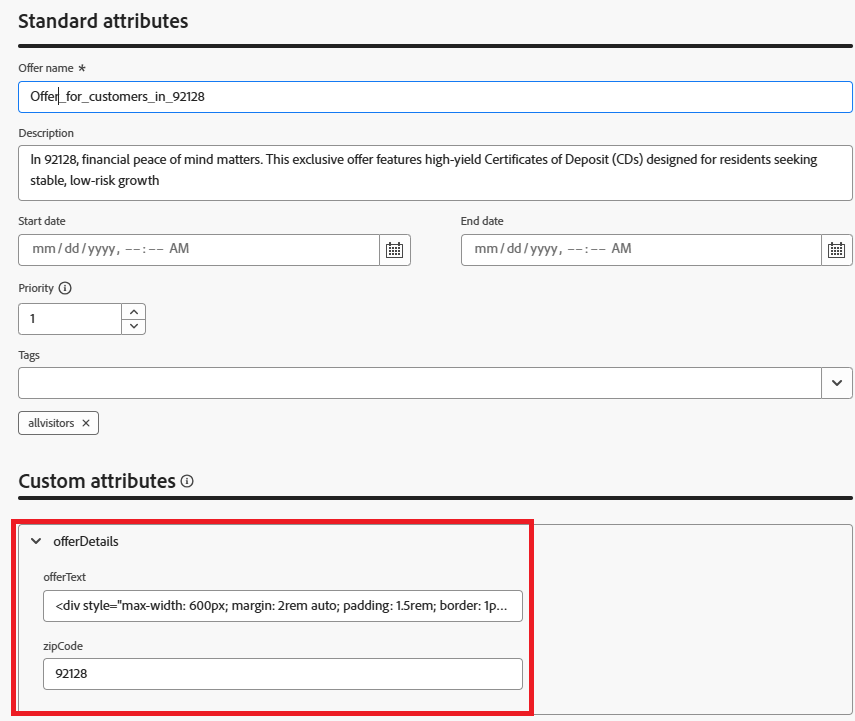
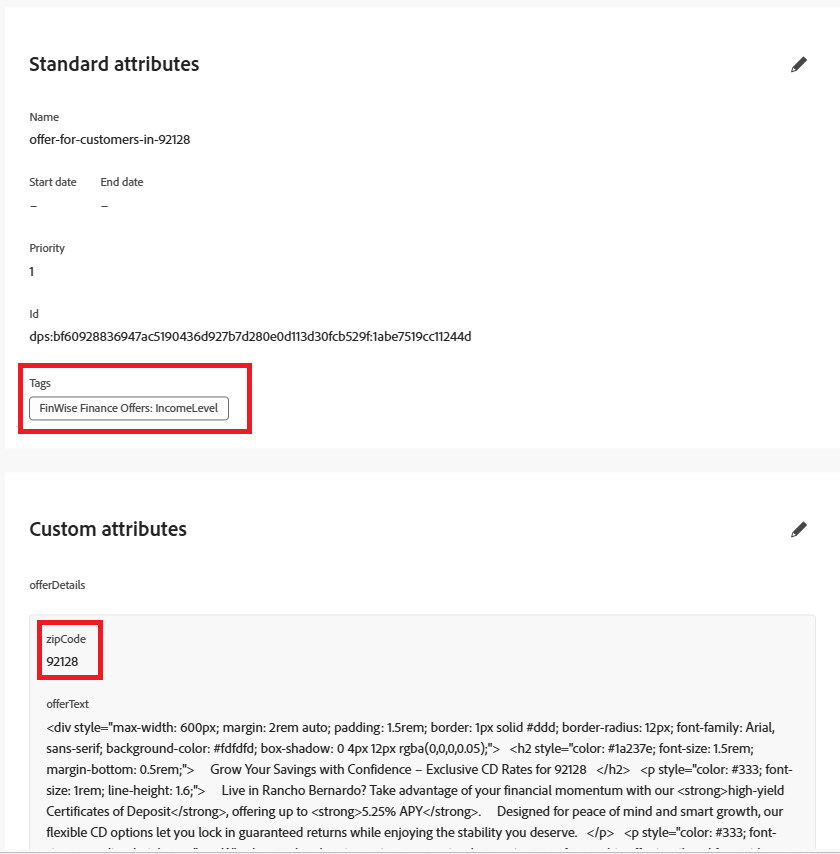
some corrections to tutorial

diff --git a/help/tutorial-ranking-formula-to-present-offers/create-ranking-formula.md b/help/tutorial-ranking-formula-to-present-offers/create-ranking-formula.md
@@ -25,32 +25,35 @@ A criterion in a ranking formula refers to a conditional rule used to assign a s
 
 
 Criteria 1
-![criteria_one](assets/criteria1.png)
 
-Criteria 1 contain three criteria:
-
-*   offer._techmarketingdemos.offerDetails.zipCode == "92128" – checks the ZIP code associated with the offer.
-
-*   _techmarketingdemos.zipCode == "92128" – checks the ZIP code on the user's profile.
-
-*   _techmarketingdemos.annualIncome > 100000 – checks the income level from the user's profile.
-
-If all of these criteria are met, the offer gets a score of 40.
+This condition filters decision items (offers) to only include those that are tagged with "IncomeLevel".
+These filtered offers will then proceed to the next step — such as ranking or delivery — based on additional logic you define.
+![criteria_one](assetS/income-related-formual.png)
 
 
+The following expression is used to create the ranking score
+``` pql
+if(   offer._techmarketingdemos.offerDetails.zipCode = _techmarketingdemos.zipCode,   _techmarketingdemos.annualIncome / 1000 + 10000,   if(     not offer._techmarketingdemos.offerDetails.zipCode,     _techmarketingdemos.annualIncome / 1000,     -9999   ) )
+
+```
+
+What the Formula Does
+
+* If the offer has the same ZIP code as the user, give it a very high score so it gets picked first.
+
+* If the offer doesn't have a ZIP code at all (it's a general offer), give it a normal score based on the user's income.
+
+* If the offer has a different ZIP code than the user, give it a very low score so it's not selected.
+
+This way, the system:
+
+* Always tries to show a ZIP-matching offer first,
+
+* Falls back to a general offer if no match is found, and avoids showing offers meant for other ZIP codes.
+
+
+If an offer item does not meet any of the filter criteria (like not having the "IncomeLevel" tag), it will still be considered but will receive a default ranking score of 10.
 
 
 
 
-Criteria 2
-![criteria_two](assets/criteria2.png)
-
-Criteria 2 contain three criteria:
-
-*   offer._techmarketingdemos.offerDetails.zipCode == "92126" – checks the ZIP code associated with the offer.
-
-*   _techmarketingdemos.zipCode == "92126" – checks the ZIP code on the user's profile.
-
-*   _techmarketingdemos.annualIncome < 100000 – checks the income level from the user's profile.
-
-If all of these criteria are met, the offer gets a score of 30.

diff --git a/help/tutorial-ranking-formula-to-present-offers/create-campaign.md b/help/tutorial-ranking-formula-to-present-offers/create-campaign.md
@@ -82,6 +82,14 @@ The result is a tailored set of offers, returned as HTML content, and displayed 
   A logic expression that scores each eligible offer. The offer with the highest score is rendered in the personalized experience.
 
 
+5. **Insert Decision Policy**
+
+    ![personalization-editor](assets/personalization-editor.png)
+
+    This Handlebars code loops through the offers returned by a specific decision policy in Adobe Journey Optimizer and creates a `<div>` for each offer. Each `<div>` includes a data-tags attribute that incorporates the offer's internal name, which we used to split and group offers within our carousel. This allows the front-end logic to identify and organize offers by category or tag for smooth carousel navigation. The content inside each `<div>` displays the personalized offer text, enabling dynamic and visually segmented presentation of multiple offers.
+
 
 6. **Publish the Campaign**  
    Activate the campaign to begin delivering personalized offers in real time.
+
+   ![img](assets/personalization-editor.png)

diff --git a/help/tutorial-ranking-formula-to-present-offers/create-offers.md b/help/tutorial-ranking-formula-to-present-offers/create-offers.md
@@ -69,7 +69,7 @@ The offer text for Generic offer, without any zip code associated with the offer
 
 ```
 
-Group these offers in a collection called **_GenericOffers_**
+Group these offers in a collection called **income-related-offers**
 
 The offers are available to all visitors—meaning there are no strict eligibility constraints—then the ranking formula becomes critical for determining which offer should be shown based on profile context.
 Since eligibility rules aren't filtering the offers, all three are treated as candidates.
